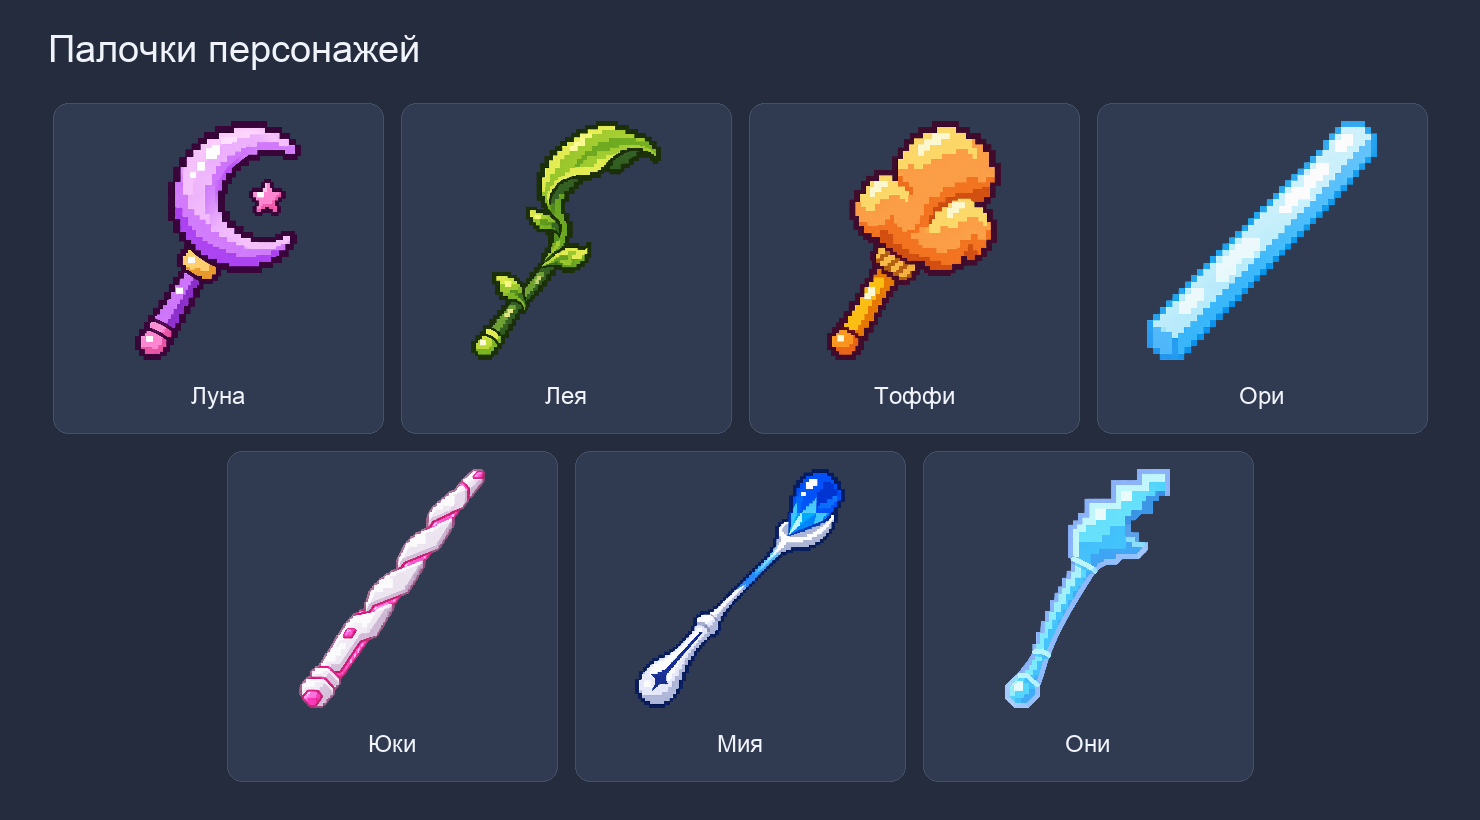
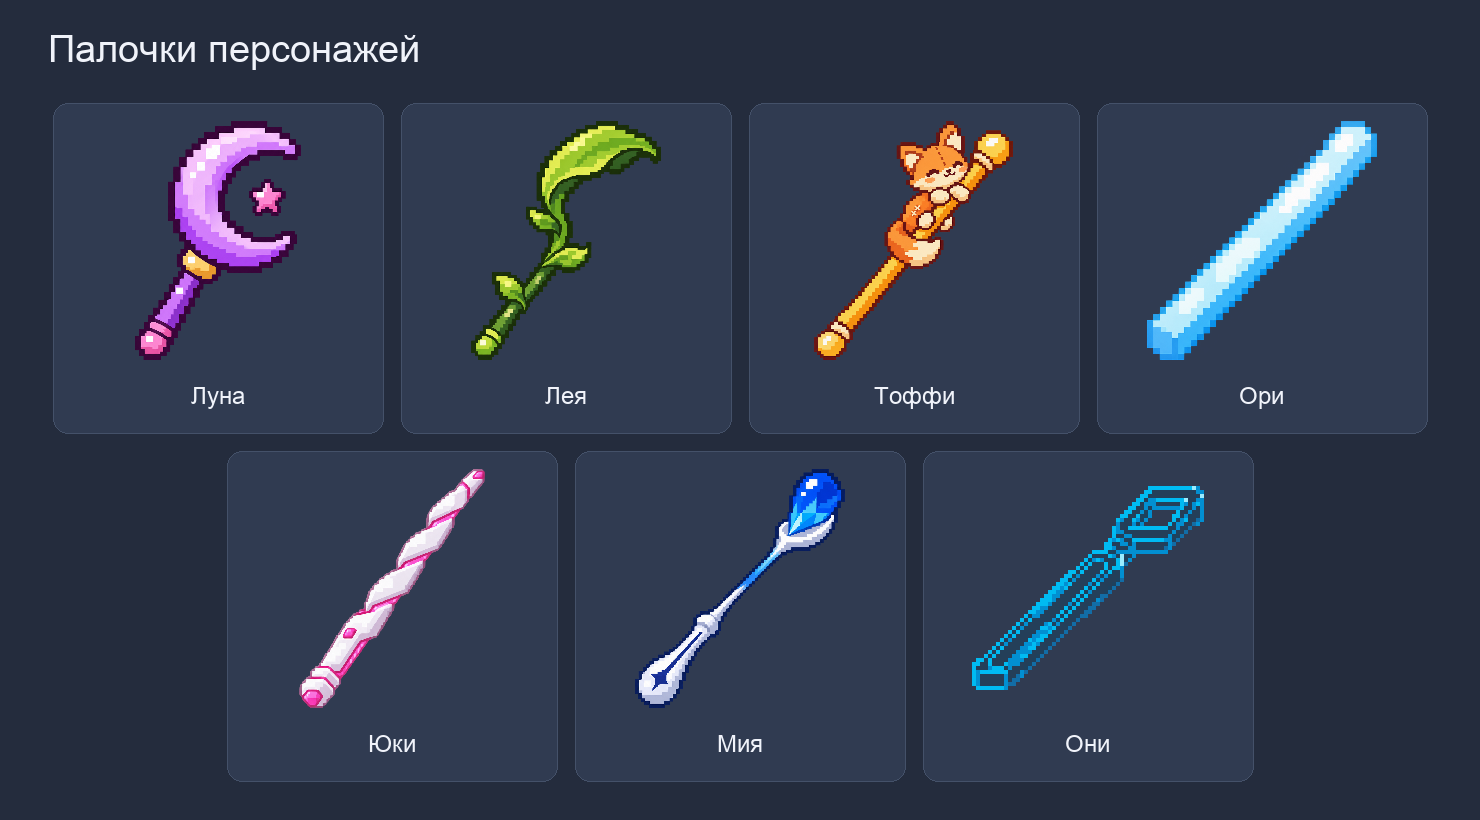
Refine Oni and Toffi wands and record future art references

Changed region(s): [[0.5284, 0.1524, 0.6838, 0.4573], [0.6527, 0.5488, 0.8392, 0.8841]]

diff --git a/assets/production/wands/README.md b/assets/production/wands/README.md
@@ -6,21 +6,21 @@
 | --- | --- |
 | [Луна](../../approved/hud/godot/retro-ui-kit/assets/ui/pixel-v1/items/wand.png) | Сиреневый полумесяц с розовой звездой внутри. |
 | [Лея](concepts/leya.png) | Автор выбрал первый зелёный вариант. Тонкий травянистый стебель с листьями и раскрывающимся изогнутым листом на конце. |
-| [Тоффи](concepts/toffi.png) | Жёлто-оранжевая палочка с мягким пушистым пучком и медовыми тенями. |
+| [Тоффи](concepts/toffi.png) | Автор выбрал жёлто-оранжевый жезл с плюшевой лисичкой на конце. Она держится за него лапками и обвивает хвостом. |
 | [Ори](concepts/ori.png) | Объёмный неоновый жезл светло-голубого цвета. Грани и торец читаются в одном материале. |
 | [Юки](concepts/yuki.png) | Белые металлические пластины соединены тонкими светящимися розовыми швами. Кончик — компактный скошенный наконечник с розовым окошком. |
 | [Мия](concepts/miya.png) | Бело-синий алхимический жезл-мешалка. На керамическом кончике синяя капля переходит в кристалл. |
-| [Они](concepts/oni.png) | Рабочий вариант. Светло-синий жезл с узким хватом и угловатой верхушкой в форме гребня волны. Светлые грани соединяют модули в один силуэт. |
+| [Они](concepts/oni.png) | Рабочий вариант. Прямой ретровейв-жезл с широкой гранёной рукоятью и небольшим сквозным окном в наконечнике. Форму задают яркие синие рёбра и прозрачные синие плоскости. |
 
 ## Запросы к ImageGen
 
 Общий запрос для новых концептов — один предмет целиком на прозрачном фоне, ракурс сбоку с наклоном снизу слева вверх вправо. Палочка Луны задаёт примерный размер предмета и крупную пиксельную сетку. Использовать ограниченную палитру, 3–4 ступенчатых тона и читаемый силуэт в уменьшении.
 
 - **Лея.** Чередующиеся листья вдоль стебля, асимметричная верхушка папоротника, мшистые тени и жёлто-зелёные блики.
-- **Тоффи.** Мягкая верхушка из нескольких пушистых прядей. Лимонные блики, абрикосовые переходы, медово-охристое основание.
+- **Тоффи.** Короткий медово-жёлтый жезл с открытой нижней частью для хвата. Оригинальная плюшевая лисичка обнимает верхнюю треть двумя лапками. Пушистый хвост с кремовым кончиком огибает стержень. Маленькие контрастные уши, светлые щёки, спокойная улыбка и несколько крупных пиксельных пятен.
 - **Ори.** Длинная узкая прямоугольная призма со скошенными рёбрами и видимым торцом. Ледяной светло-голубой материал светится по всей длине, включая зону хвата.
 - **Юки.** Четыре стыкующиеся белые металлические пластины, слегка смещённые по силуэту. Узкие розовые светящиеся стыки, небольшая клавиша заподлицо и холодные светлые тени. Наконечник повторяет скошенные грани корпуса с одним розовым световым окошком.
 - **Мия.** Узкий белый керамический стержень со светло-синей вставкой и неглубоким кончиком, как у лабораторной мешалки. Силуэт одной сапфировой капли переходит в голубые кристаллические грани.
-- **Они.** Три полупрозрачных модуля соединены в лёгком изгибе. Верхушка с небольшим уступом напоминает угловатый гребень волны. Светло-синие поверхности, тонкая голубая подсветка на гранях, близкие по светлоте тона и крупные пиксельные кластеры внутри силуэта.
+- **Они.** От ретровейв-линий из референса взять ступенчатые синие рёбра, от голограмм — прозрачные плоскости и редкие световые узлы. Рукоять со скошенными углами, короткий стык и наконечник с прямоугольным проёмом лежат на одной прямой оси. [Исходник ImageGen](source/oni-retrowave.png) переведён на единую сетку 64×64 с небольшим числом цветов и прозрачностью внутри корпуса.
 
-В `concepts/` лежат выбранные исходники ImageGen. Размер в руке, точку хвата и эффекты уточнять после выбора окончательной формы по [правилам работы со спрайтом](../ART_ASSET_REGISTER.md#позы-рук-и-предметы).
+В `concepts/` лежат выбранные концепты. Размер в руке, точку хвата и эффекты уточнять после выбора окончательной формы по [правилам работы со спрайтом](../ART_ASSET_REGISTER.md#позы-рук-и-предметы).

diff --git a/assets/production/ART_ASSET_REGISTER.md b/assets/production/ART_ASSET_REGISTER.md
@@ -39,6 +39,13 @@
 | [Слайм травы](fauna/prepared/slime-grass-idle.png) | Рабочий цветовой и силуэтный кадр | Покой, внешний ракурс слегка сверху. Холст 64×48 с опорой (32, 43). Для прыжка нужны фазы сжатия, отрыва, полёта и посадки на той же опоре. |
 | [Нейтральный слайм](fauna/prepared/slime-neutral-idle.png) | Рабочий молочно-белый кадр того же силуэта | Переключать визуал при снятии элемента по §04.4. Сохранять ID, позу, размер, точку опоры и текущую фазу движения. Новые стихийные эффекты определяются игровыми данными. |
 
+## Лягушка и оживляемый хлеб
+
+Референс автора от 26.11.2026 — приложенный к обсуждению палочек лист миниатюр с подписью TAILSIDE. Для своих спрайтов взять читаемые формы и крупные пиксельные пятна.
+
+- **Квадратная лягушка.** При разработке семейства из §04 сверить низкий квадратный корпус, глаза по верхнему краю и крупные светлые щёки на референсе. Для прыжка подготовить силуэты сжатия и отрыва.
+- **Оживляемый хлеб.** Автор предложил для будущей сцены обычный хлеб, который можно оживить. Для арт-пробы подготовить хлеб и ожившую версию с короткими лапками и мимикой, сохранив узнаваемую форму. Место появления остаётся открытым.
+
 ## Окно взлома
 
 Рабочая палитра на текстурах [пиксельного комплекта](../approved/hud/godot/retro-ui-kit/README.md). [Семь тем на стенде](hack-window/previews/seven-profiles.png) · [сравнение Ори](hack-window/previews/ori-before-and-after.png). Палитра примерена на копии компонента Godot. Для игрового HUD требуется отдельное подключение.
